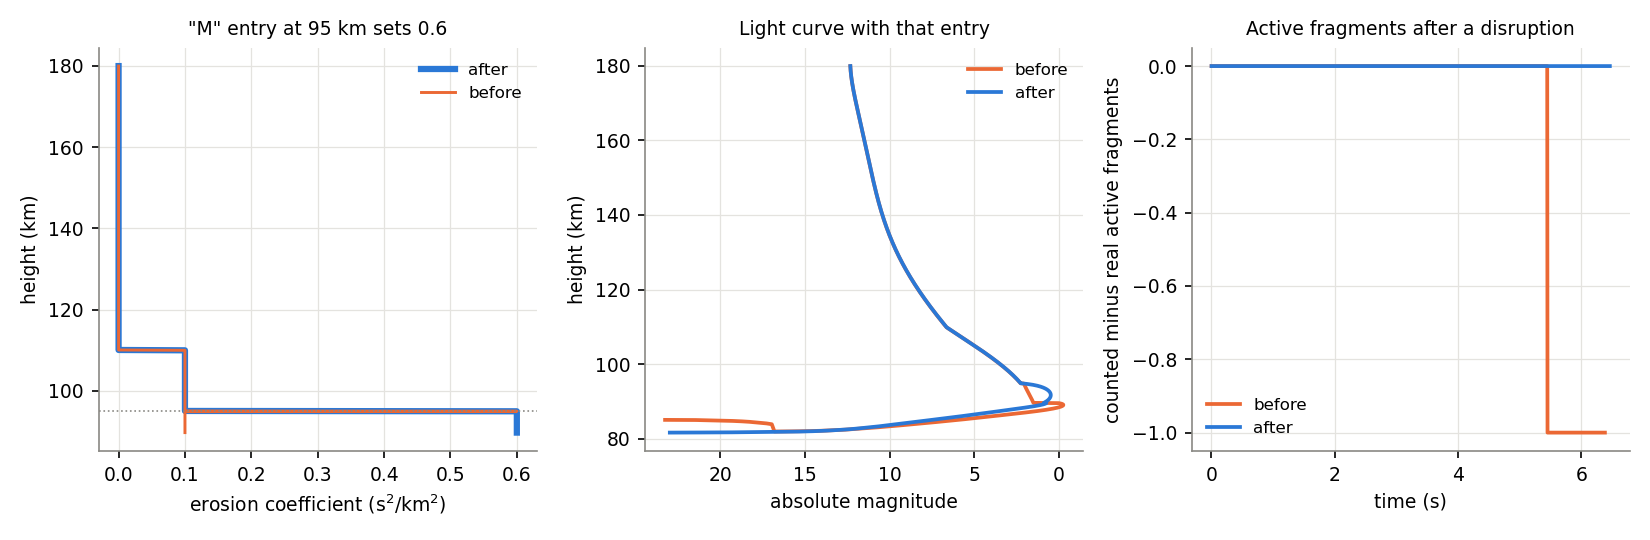
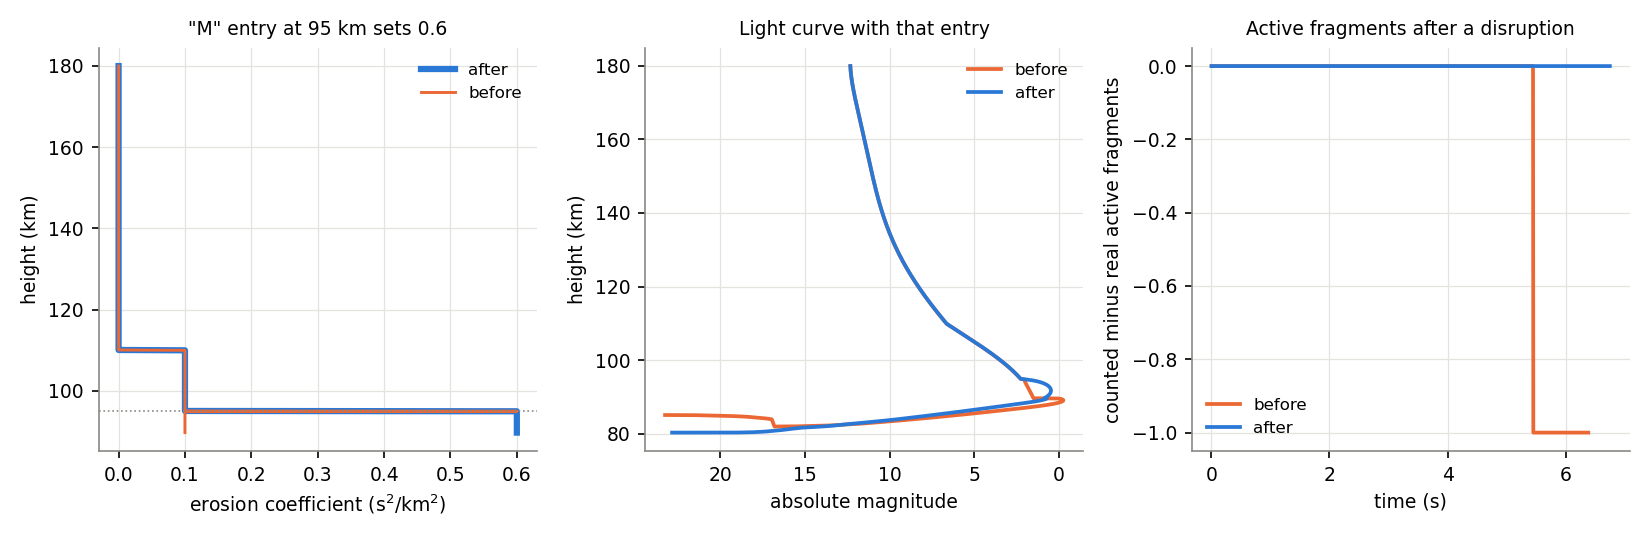
Update the MetSim figures and the doc for the substeps and the grains of ended fragments
Claude-Session: https://claude.ai/code/session_017G5K4vHM8FDzUMWRbdfb43

diff --git a/wmpl/Docs/MetSim.md b/wmpl/Docs/MetSim.md
@@ -173,11 +173,19 @@ With the mass and the speed stepped separately and the grains rounded down in ev
 eroding CAMO meteors changed a lot with the time step: the end height by up to 2.1 km, and the RMS of the
 light-curve residuals of two Orionids went from 0.15 and 0.26 mag to 1.9 and 1.5 mag. The lag at the end of
 a US fireball of 2025 moved by 1.2 km. These fits had been tuned, without anyone knowing, to the numerical
-error of the time step. With the coupled steps and the grain bins (blue), the largest changes are 10-25
-times smaller: 0.13 km in the end height, 0.12 km in the lag and 0.07 mag in the RMS of the residuals.
-What is left comes from the steps in which something starts, such as the erosion or a fragmentation entry,
-which happen at the end of a step, and from short flares, which a longer step samples differently (the
-peak of the 2022 WJ1 fireball, a flare from a fragmentation entry, moves by 1 mag both before and after).
+error of the time step. With the coupled steps and the grain bins (blue), the largest changes are 0.14 km
+in the end height and 0.13 mag in the RMS of the residuals, 15 times smaller. What is left comes from things
+which happen at the end of a step: the start of the erosion, a fragmentation entry, or the end of a
+fragment. The largest change left in the lag, 0.3 km for the CAMO Lyrid, is of that kind: once the main
+fragment is gone, the leading fragment is the leading grain, and the step in which it ends sets where the
+lag stops (at 75 % of the path the two steps agree to 0.3 m).
+
+The substeps also matter for short flares from fragmentation entries. Dust released deep in the atmosphere
+burns up within a fraction of a step, and a step which does not resolve it loses 13-15 % of the light of the
+flares of the 2022 WJ1 and the Ontario 2022 fireballs at their time step. With the substeps, the light in the
+flares is the same as with a 10 times smaller step, and their peaks are 0.3-0.4 mag brighter than with the
+steps taken separately. The peak magnitude of a flare shorter than a step still depends on the
+step, as the light of a step is its average over the step, but the light in the flare does not.
 
 ![Two old fits, before and after, each at its own time step and a 10 times smaller one](figures/MetSim_fit_examples.png)
 
